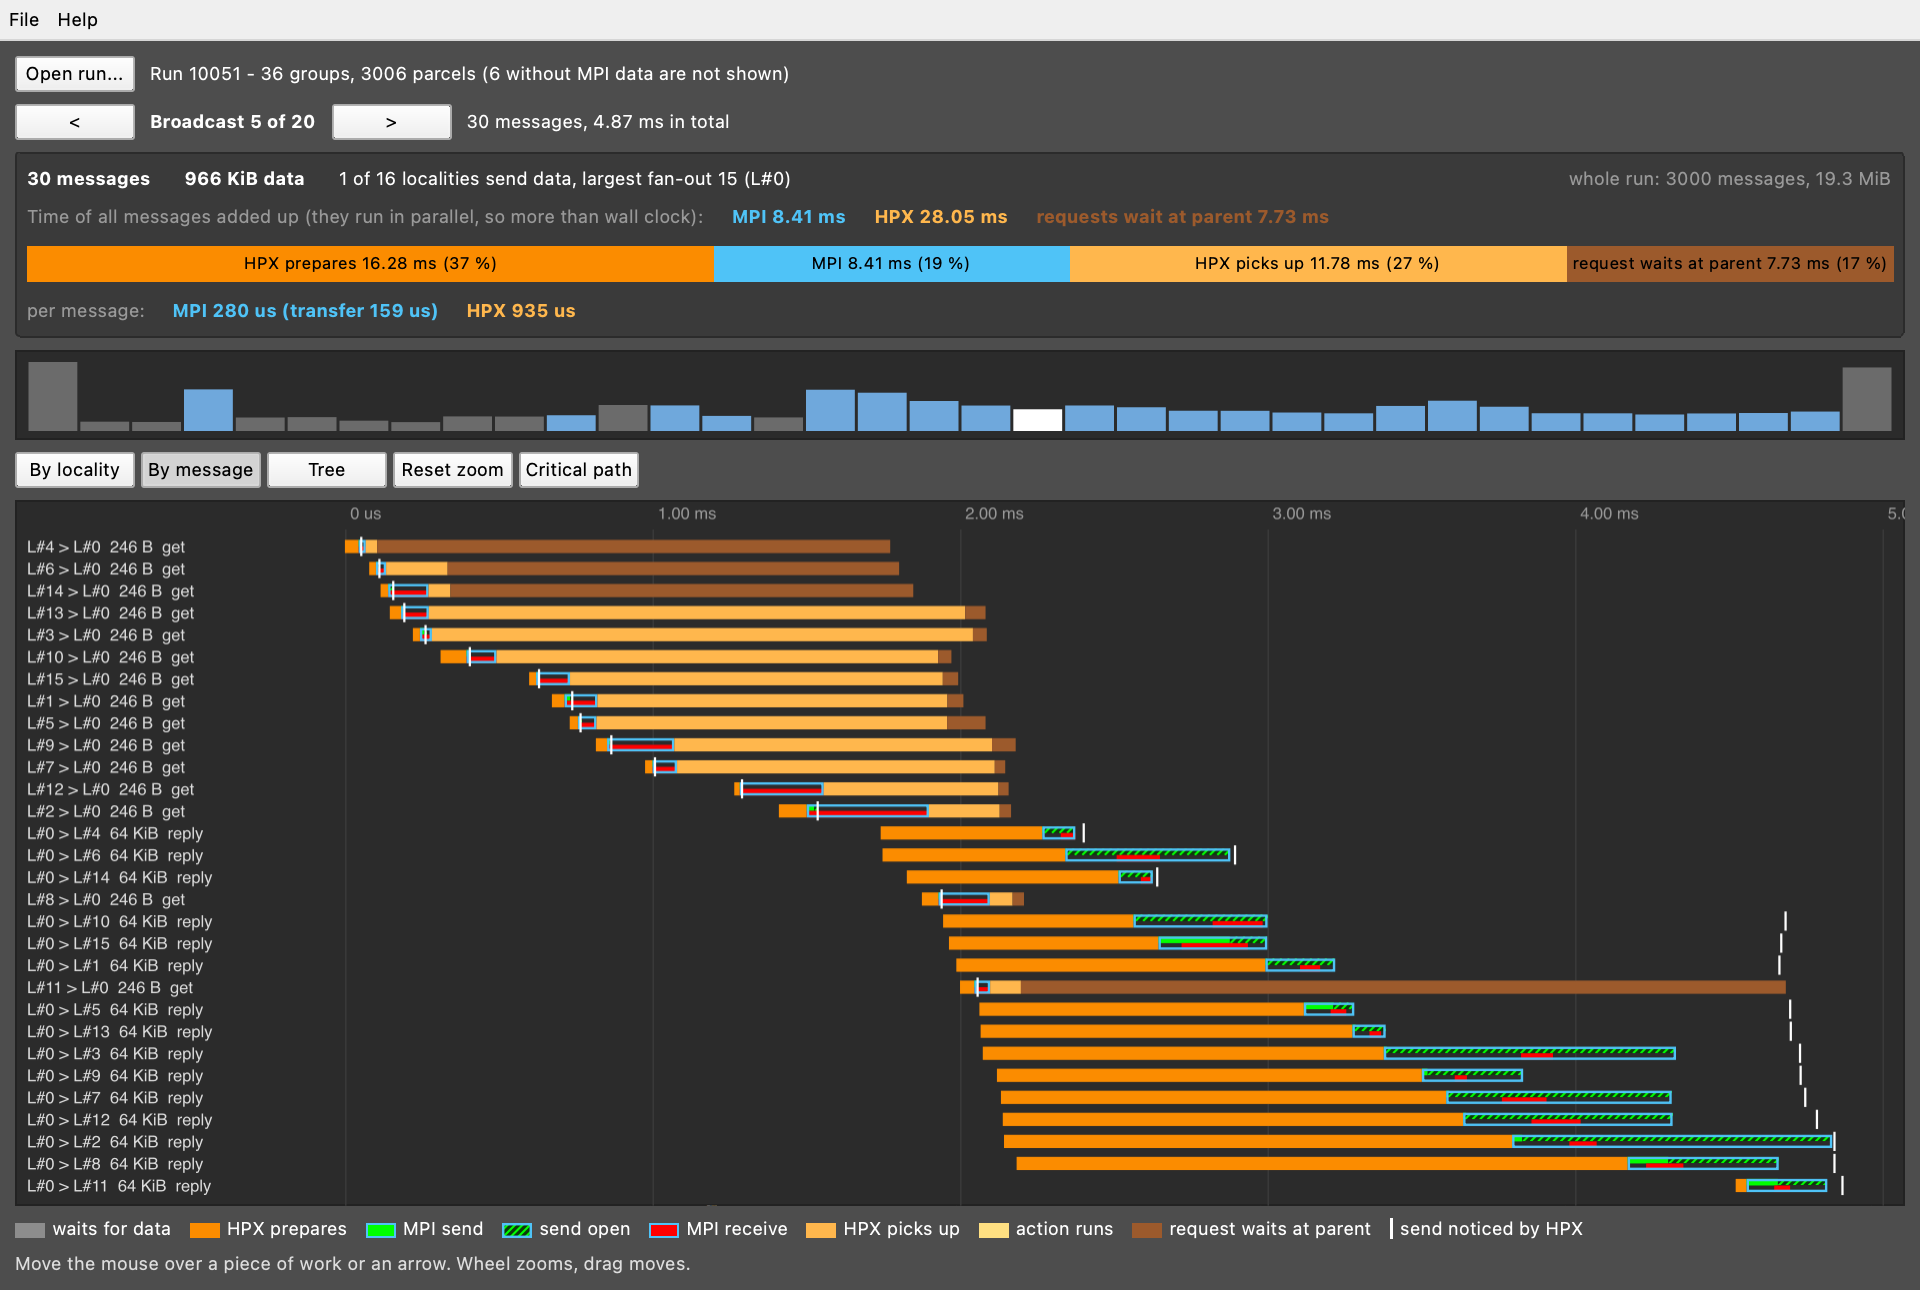
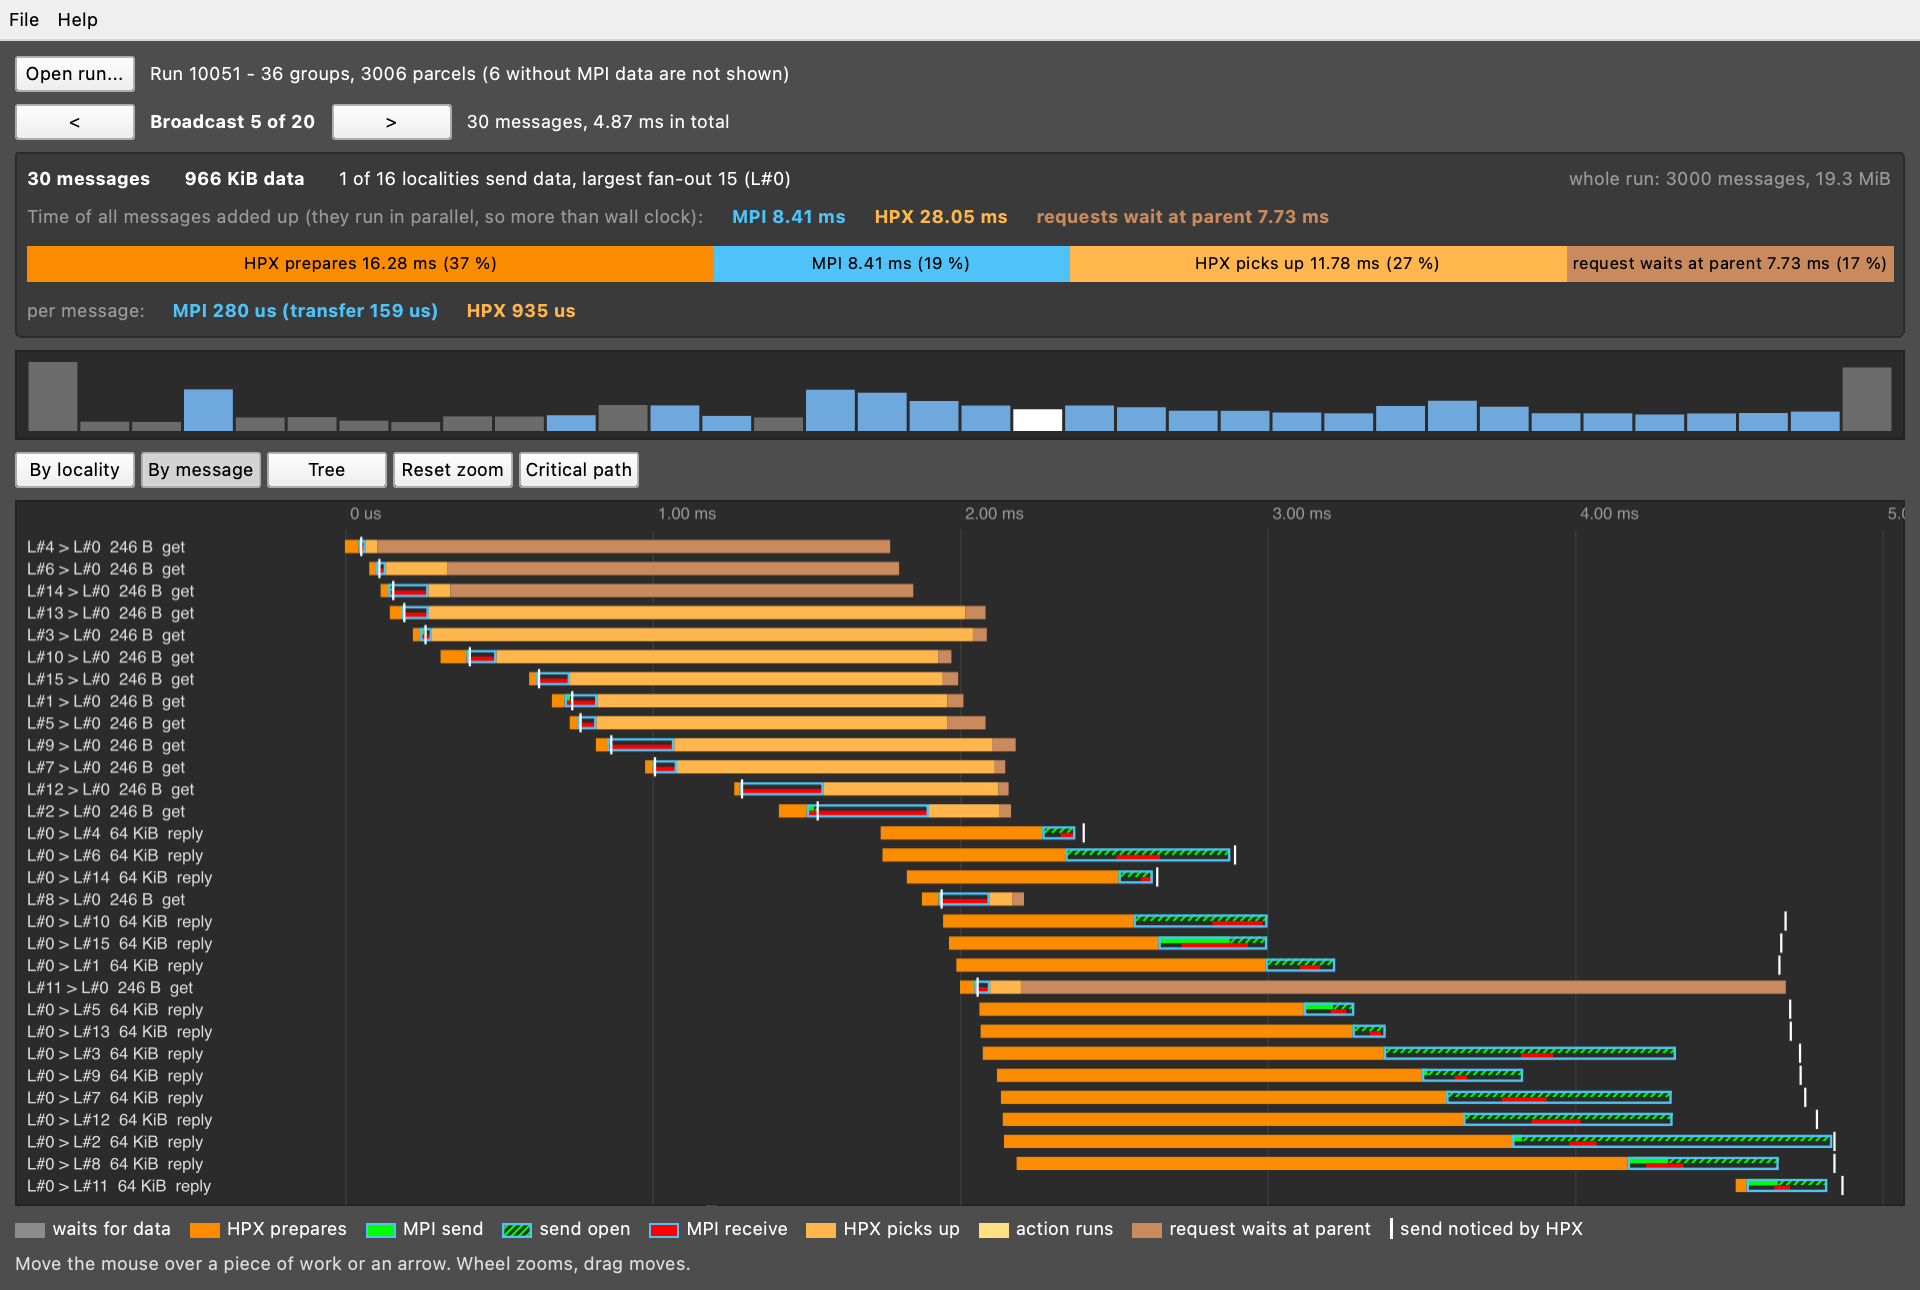
Lighter brown for a request waiting at its parent; new screenshots

diff --git a/gui/qml/Main.qml b/gui/qml/Main.qml
@@ -103,7 +103,7 @@ ApplicationWindow {
     property real pathPick: 0
     property real pathAction: 0
     property real pathParent: 0          // the request waits at the parent until the reply is created
-    readonly property color parentColor: "#9c5a2c"       // a request waits at its parent: warm brown
+    readonly property color parentColor: "#c98a5e"       // a request waits at its parent: warm brown
     property string pathChain: ""
 
     // "the send request is still open": dark green with diagonal stripes in the green of the send, so that it cannot be
